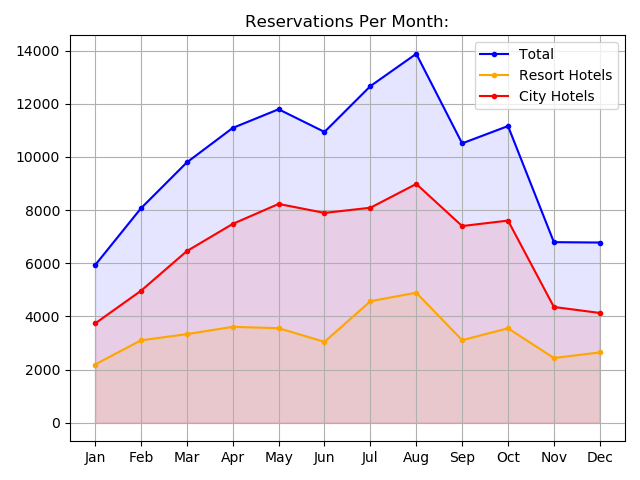
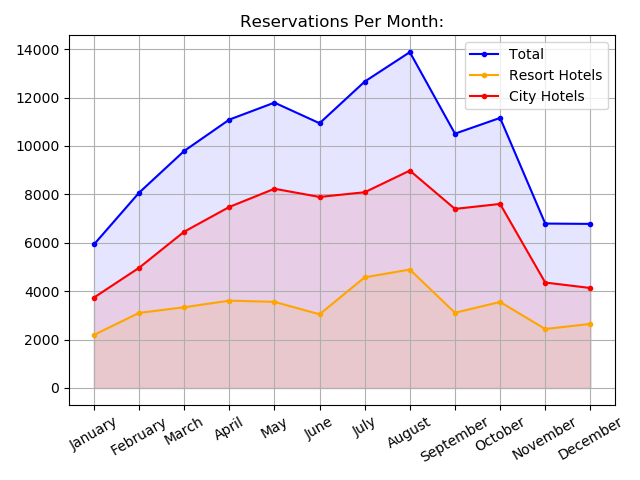
Beter calc MonthStats

diff --git a/functions.py b/functions.py
@@ -60,100 +60,33 @@ def calcBasics():
         plt.clf()
 
 def calcMonthStats():
+    global totalMonthDict
     totalMonthDict = {
-        "Jan" : 0,
-        "Feb" : 0,
-        "Mar" : 0,
-        "Apr" : 0,
+        "January" : 0,
+        "February" : 0,
+        "March" : 0,
+        "April" : 0,
         "May" : 0,
-        "Jun" : 0,
-        "Jul" : 0,
-        "Aug" : 0,
-        "Sep" : 0,
-        "Oct" : 0,
-        "Nov" : 0,
-        "Dec" : 0
+        "June" : 0,
+        "July" : 0,
+        "August" : 0,
+        "September" : 0,
+        "October" : 0,
+        "November" : 0,
+        "December" : 0
 
     }
 
     resortMonthDict = totalMonthDict.copy()
     cityMonthDict = totalMonthDict.copy()
-    
     for lines in csvFile:
         if lines['hotel'] == "Resort Hotel":
-            if lines['arrival_date_month'] == "January":
-                resortMonthDict['Jan'] += 1
-                totalMonthDict['Jan'] += 1
-            elif lines['arrival_date_month'] == "February":
-                resortMonthDict['Feb'] += 1
-                totalMonthDict['Feb'] += 1
-            elif lines['arrival_date_month'] == "March":
-                resortMonthDict['Mar'] += 1
-                totalMonthDict['Mar'] += 1
-            elif lines['arrival_date_month'] == "April":
-                resortMonthDict['Apr'] += 1
-                totalMonthDict['Apr'] += 1
-            elif lines['arrival_date_month'] == "May":
-                resortMonthDict['May'] += 1
-                totalMonthDict['May'] += 1
-            elif lines['arrival_date_month'] == "June":
-                resortMonthDict['Jun'] += 1
-                totalMonthDict['Jun'] += 1
-            elif lines['arrival_date_month'] == "July":
-                resortMonthDict['Jul'] += 1
-                totalMonthDict['Jul'] += 1
-            elif lines['arrival_date_month'] == "August":
-                resortMonthDict['Aug'] += 1
-                totalMonthDict['Aug'] += 1
-            elif lines['arrival_date_month'] == "September":
-                resortMonthDict['Sep'] += 1
-                totalMonthDict['Sep'] += 1
-            elif lines['arrival_date_month'] == "October":
-                resortMonthDict['Oct'] += 1
-                totalMonthDict['Oct'] += 1
-            elif lines['arrival_date_month'] == "November":
-                resortMonthDict['Nov'] += 1
-                totalMonthDict['Nov'] += 1
-            elif lines['arrival_date_month'] == "December":
-                resortMonthDict['Dec'] += 1
-                totalMonthDict['Dec'] += 1
-        elif lines['hotel'] == "City Hotel":
-            if lines['arrival_date_month'] == "January":
-                cityMonthDict['Jan'] += 1
-                totalMonthDict['Jan'] += 1
-            elif lines['arrival_date_month'] == "February":
-                cityMonthDict['Feb'] += 1
-                totalMonthDict['Feb'] += 1
-            elif lines['arrival_date_month'] == "March":
-                cityMonthDict['Mar'] += 1
-                totalMonthDict['Mar'] += 1
-            elif lines['arrival_date_month'] == "April":
-                cityMonthDict['Apr'] += 1
-                totalMonthDict['Apr'] += 1
-            elif lines['arrival_date_month'] == "May":
-                cityMonthDict['May'] += 1
-                totalMonthDict['May'] += 1
-            elif lines['arrival_date_month'] == "June":
-                cityMonthDict['Jun'] += 1
-                totalMonthDict['Jun'] += 1
-            elif lines['arrival_date_month'] == "July":
-                cityMonthDict['Jul'] += 1
-                totalMonthDict['Jul'] += 1
-            elif lines['arrival_date_month'] == "August":
-                cityMonthDict['Aug'] += 1
-                totalMonthDict['Aug'] += 1
-            elif lines['arrival_date_month'] == "September":
-                cityMonthDict['Sep'] += 1
-                totalMonthDict['Sep'] += 1
-            elif lines['arrival_date_month'] == "October":
-                cityMonthDict['Oct'] += 1
-                totalMonthDict['Oct'] += 1
-            elif lines['arrival_date_month'] == "November":
-                cityMonthDict['Nov'] += 1
-                totalMonthDict['Nov'] += 1
-            elif lines['arrival_date_month'] == "December":
-                cityMonthDict['Dec'] += 1
-                totalMonthDict['Dec'] += 1
+            resortMonthDict[lines['arrival_date_month']] += 1
+            totalMonthDict[lines['arrival_date_month']] += 1
+        else:
+            cityMonthDict[lines['arrival_date_month']] += 1
+            totalMonthDict[lines['arrival_date_month']] += 1
+
     plt.plot(list(totalMonthDict.keys()), list(totalMonthDict.values()), marker='.', label = 'Total', color='Blue')
     plt.plot(list(resortMonthDict.keys()), list(resortMonthDict.values()), marker='.', label = 'Resort Hotels', color='Orange')
     plt.plot(list(cityMonthDict.keys()), list(cityMonthDict.values()), marker='.', label = 'City Hotels', color='Red')
@@ -163,6 +96,8 @@ def calcMonthStats():
     plt.grid()
     plt.legend()
     plt.title("Reservations Per Month:")
+    plt.xticks(rotation=30)
+    plt.tight_layout()
     plt.savefig(".monthStats.png")
     plt.cla()
 
@@ -173,18 +108,26 @@ def calcSeasonStats():
         "Summer" : 0,
         "Autumn" : 0
     }
-    for lines in csvFile:
-        if lines['arrival_date_month'] == "December" or lines['arrival_date_month'] == "January" or lines['arrival_date_month'] == "February":
-            totalSeasonDict['Winter'] += 1
-        elif lines['arrival_date_month'] == "March" or lines['arrival_date_month'] == "April" or lines['arrival_date_month'] == "May":
-            totalSeasonDict['Spring'] += 1
-        elif lines['arrival_date_month'] == "July" or lines['arrival_date_month'] == "June" or lines['arrival_date_month'] == "August":
-            totalSeasonDict['Summer'] += 1
-        elif lines['arrival_date_month'] == "September" or lines['arrival_date_month'] == "October" or lines['arrival_date_month'] == "November":
-            totalSeasonDict['Autumn'] += 1
+
+    calcMonthStats()
+
+    totalSeasonDict['Winter'] = totalMonthDict['December'] + totalMonthDict['January'] + totalMonthDict['February'] 
+    totalSeasonDict['Spring'] = totalMonthDict['March'] + totalMonthDict['April'] + totalMonthDict['May'] 
+    totalSeasonDict['Summer'] = totalMonthDict['June'] + totalMonthDict['July'] + totalMonthDict['August'] 
+    totalSeasonDict['Autumn'] = totalMonthDict['September'] + totalMonthDict['October'] + totalMonthDict['November'] 
+
     plt.plot(list(totalSeasonDict.keys()), list(totalSeasonDict.values()), marker='.', color='Blue')
     plt.fill_between(list(totalSeasonDict.keys()), list(totalSeasonDict.values()), color='blue', alpha=.1)
     plt.grid()
     plt.title("Reservations Per Season:")
     plt.savefig(".seasonStats.png")
     plt.cla()
+
+def calcRoomTypeStats():
+    roomTypeDict = {
+        "A" : 0,
+        "B" : 0,
+        "C" : 0,
+        "D" : 0,
+        "E" : 0
+    }
